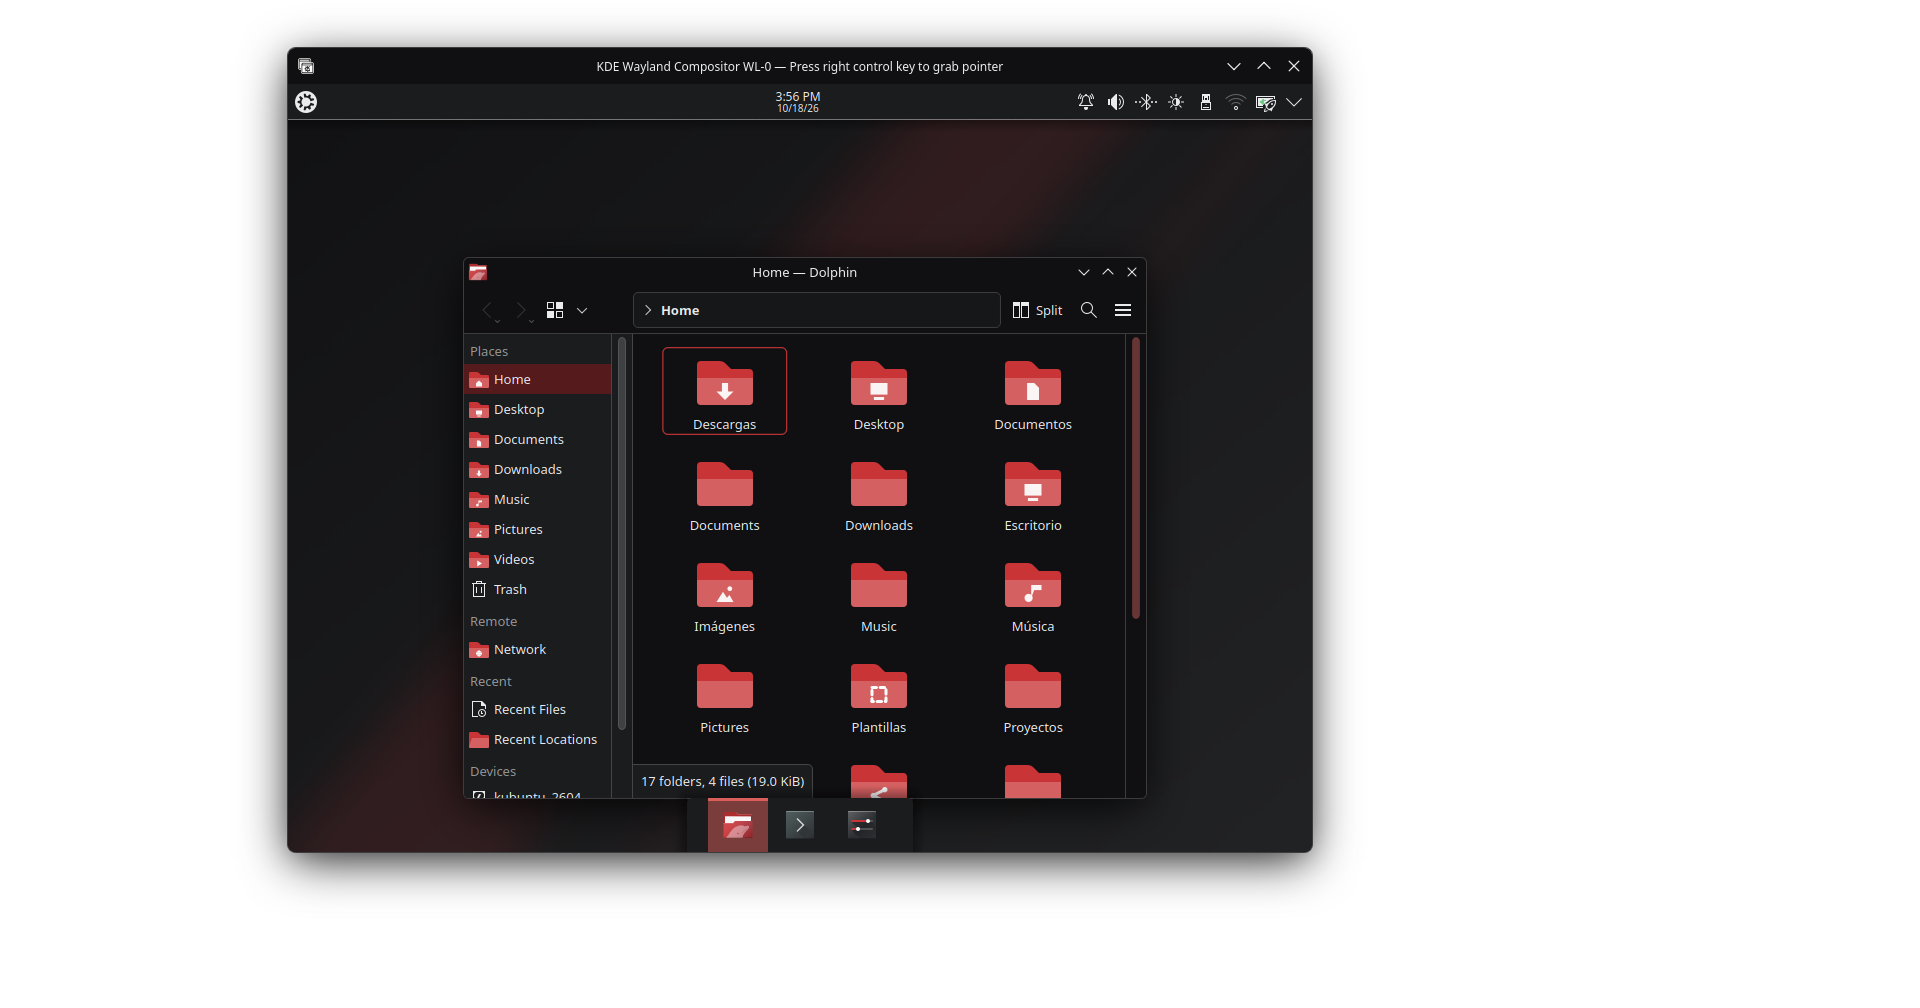
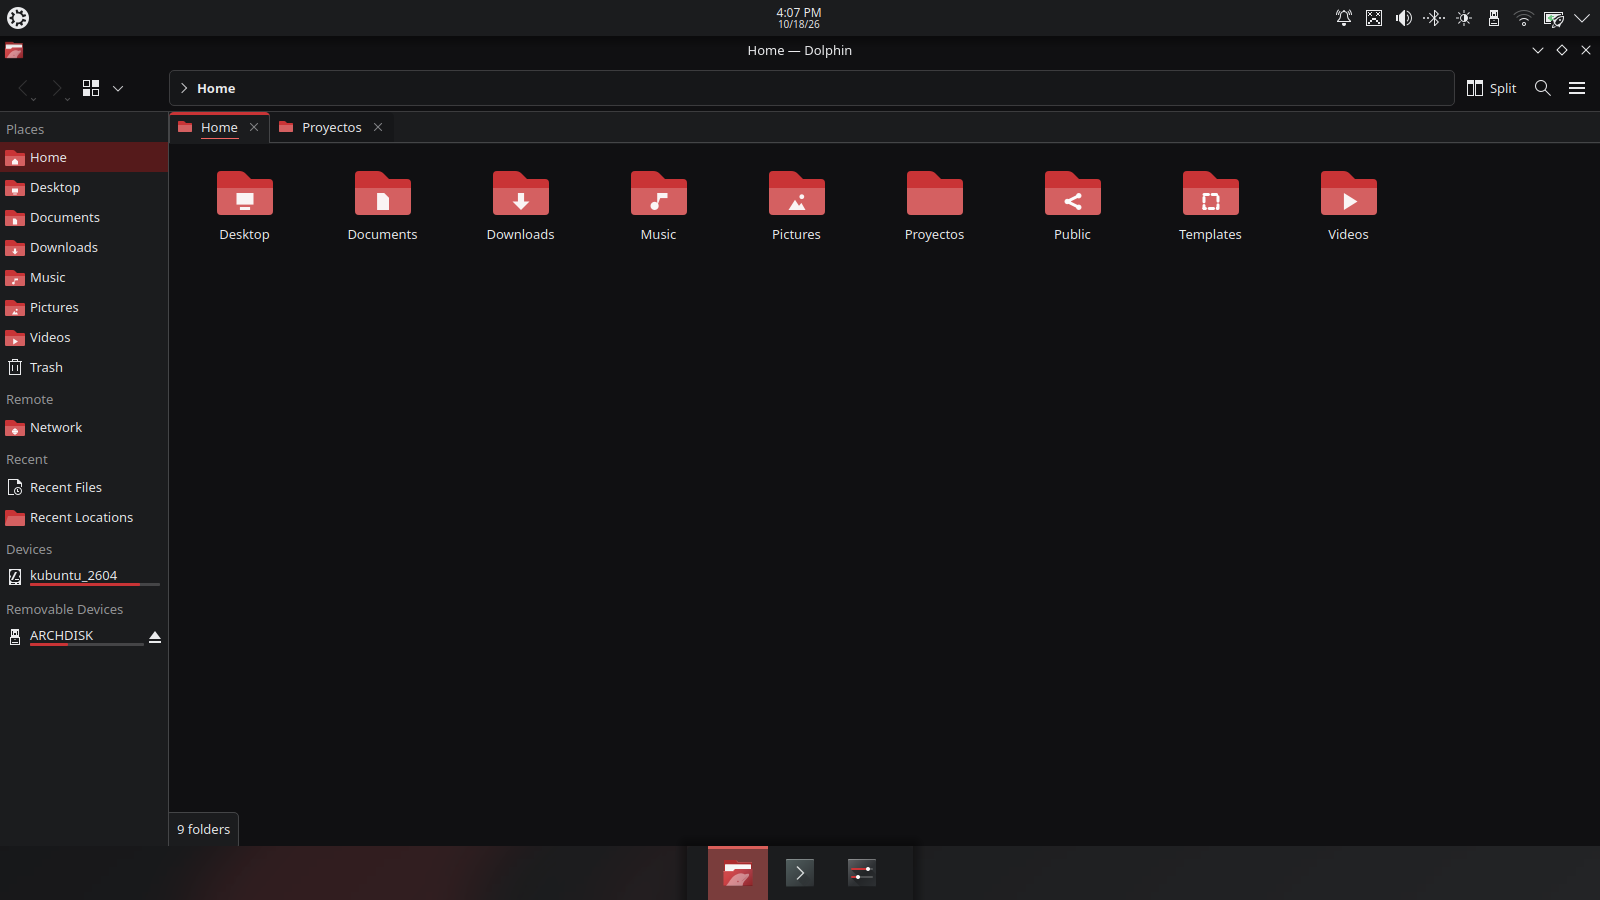
docs: validación visual del lote 2
Sesión de Plasma anidada con HOME aparte (/tmp/casa-lliphi-l2), compositor externo
`--virtual` y DBus de prueba: iconos de carpeta en Dolphin (22, 32 y 64 px escalable) y la
extensión de VS Code en Positron 2026.06.0, en las dos variantes, con colores medidos contra
los tokens; capturas 06–08 por variante y galería del sitio. Alacritty, Kitty, VS Code,
VSCodium y Zed no están instalados: archivos validados por estructura, estado «experimental».
`iconos` pasa a «probado». Defecto anotado: la carpeta (acento) se funde con la fila
seleccionada activa del panel de lugares (validacion.md §5.3, iconos.py). Método documentado:
doble KWin con --exit-with-session, Spectacle contra el display del externo, DPMS despierto.

diff --git a/docs/validacion.md b/docs/validacion.md
@@ -58,3 +58,75 @@ capturas (caso 02), no el boceto.
   reales lo confirman en el escritorio.
 - Validación con inicio de sesión real (usuario `prueba-tema`), escalas y aplicaciones GTK: pendiente para el autor
   o para una sesión posterior.
+
+## 5. Lote 2 (2026-10-18): iconos de carpeta, editores y terminales
+
+Mismo método con tres cambios, todos en el `HOME` aparte `/tmp/casa-lliphi-l2` y con el DBus de la sesión de prueba:
+
+1. **Compositor externo virtual.** `kwin_wayland --virtual --xwayland --width 1600 --height 900
+   --exit-with-session=startplasma-wayland` bajo `dbus-run-session`. Con `--exit-with-session`, `startplasma-wayland`
+   arranca su propio `kwin_wayland_wrapper`: hay **dos KWin anidados** (el externo, dueño de `org.kde.KWin` en el bus de
+   prueba, y el interno, que contiene la sesión de Plasma). Con el externo en ventana sobre la pantalla del autor, las
+   capturas salían negras en cuanto esa ventana dejaba de verse; con `--virtual` no dependen de la pantalla del autor
+   ni se le muestra nada.
+2. **Captura.** Spectacle pide `CaptureScreen("<nombre de pantalla>")` a `org.kde.KWin.ScreenShot2` del bus, que es
+   el externo; para que el nombre coincida hay que lanzarlo con el display del externo (`WAYLAND_DISPLAY=wayland-1
+   spectacle -b -n -o …`) y poner antes la ventana del interno a pantalla completa (script de KWin por DBus sobre
+   `org.kde.KWin`: `w.fullScreen = true`). Las aplicaciones se abren en el display interno (`wayland-2`) y se
+   maximizan con un script cargado en el KWin interno por su nombre único de bus (`:1.N`, el de su PID).
+3. **Pantalla despierta.** La sesión de prueba apaga su salida por inactividad (DPMS) y la captura sale negra o
+   lavada; `kscreen-doctor --dpms on` sobre `wayland-2` antes de cada captura, y `powerdevilrc` sin acciones por
+   inactividad en el `HOME` de prueba.
+
+Instalación: `instalar.py --aplicar` con `HOME`, `XDG_DATA_HOME`, `XDG_CONFIG_HOME` y `XDG_STATE_HOME` de prueba y una
+carpeta `.positron/` vacía creada antes, de modo que el instalador cubrió también Positron (base condicional) y omitió
+VSCodium, que no existe, diciéndolo. Variante oscura sembrada en `kdeglobals`/`plasmarc`; variante clara aplicada con
+`plasma-apply-lookandfeel -a org.lliphi.claro` y `kwriteconfig6 --file kdeglobals --group Icons --key Theme lliphi`
+más la señal `org.kde.KIconLoader.iconChanged`, todo con el DBus de la sesión de prueba.
+
+### 5.1 Capturas (`../muestras/capturas/`)
+
+| caso | oscuro | claro | qué se comprueba |
+|---|---|---|---|
+| Dolphin, vista de iconos a 32 px y lugares a 22 px | `oscuro-06-dolphin-iconos-carpeta.png` | `claro-06-dolphin-iconos-carpeta.png` | carpetas en el acento, distintivos de los lugares, lista de lugares, tema aplicado |
+| Dolphin, iconos grandes (64 px escalable, dibujado a ~96 px) | `oscuro-07-dolphin-iconos-grandes.png` | `claro-07-dolphin-iconos-grandes.png` | alineación de los distintivos y nitidez del SVG escalable |
+| Positron 2026.06.0 con la extensión instalada y `workbench.colorTheme` | `oscuro-08-positron.png` | `claro-08-positron.png` | interfaz (editor, barras, pestañas, terminal integrada) y sintaxis de Python |
+
+Valores medidos en las capturas contra `tokens/tokens.json`: Dolphin oscuro, vista `#101012`, ventana y paneles
+`#1b1c1e`, selección activa y cuerpo de la carpeta `#c93436`, solapa `#d46061`, distintivo `#faf4f4`; Dolphin claro,
+vista `#fbfcfd`, ventana `#ecedef`, carpeta `#c53133`, solapa `#d15d5f`. Positron oscuro: editor, barra de actividad,
+título y estado `#101012`, explorador y panel de sesión `#1b1c1e`, borde superior de la pestaña activa `#c93436`,
+cadenas `#69c27e`, números `#d0a43a`; Positron claro: editor `#fbfcfd`, explorador `#ecedef`, borde de pestaña
+`#c43032`, cadenas `#007835`, números `#7e5e00`, funciones `#345fb2`. Todo coincide con los semánticos y los ANSI.
+
+### 5.2 Resultado por componente
+
+| componente | estado | observación |
+|---|---|---|
+| iconos `lliphi` / `lliphi-oscuro` | **probado** | KIconLoader tiñe las carpetas con el acento (`FollowsColorScheme`) en las dos variantes; los distintivos (casa, documento, flecha, imagen, nota, reproducir, monitor, plantilla, compartir, red) se ven desde 22 px; a 64 px escalable el dibujo es nítido y alineado; lo que no es carpeta sigue siendo Breeze |
+| extensión de VS Code en Positron | **probado** (Positron 2026.06.0) | `package.json` y los dos temas cargan; interfaz y sintaxis conformes a la tabla única; `tab.activeBorderTop` en rojo; terminal integrada con el fondo del esquema |
+| VS Code, VSCodium | no probado | no están instalados en esta máquina; la extensión es la misma que carga Positron (base VS Code ≥ 1.80) |
+| Zed | no probado | no está instalado; `lliphi.json` válido por estructura (esquema v0.2.0, dos temas, 145 claves de estilo) |
+| Alacritty | no probado | no está instalado; los `.toml` cargan con `tomllib` y traen `colors.{primary,cursor,vi_mode_cursor,selection,search,hints,footer_bar,line_indicator,normal,bright}` |
+| Kitty | no probado | no está instalado; los `.conf` traen 37 claves y la cabecera `## name:` para `kitten themes` |
+| LibreOffice | no probado aquí | queda para el autor (`estado.md`) |
+| escala 150 % | no verificado | la sesión anidada corre a escala 1; se cubrió con la vista de iconos grandes (64 px escalable a ~96 px) |
+
+### 5.3 Defectos y observaciones
+
+1. **Carpeta sobre la fila seleccionada** (`herramientas/destinos/iconos.py`). En el panel de lugares de Dolphin, con la
+   fila activa y seleccionada, el cuerpo de la carpeta (`ColorScheme-Highlight`, `#c93436`) se funde con el fondo de la
+   selección (el mismo acento): solo la solapa y el distintivo blanco la delatan (`oscuro-06`, fila «Home» en el primer
+   intento; con la selección inactiva, `#551a1b` o `#e8c3c3`, se ve bien). KFilePlacesView no pide a KIconLoader el
+   estado «seleccionado», que es el que invertiría los colores. Opciones, a decidir en el generador: un contorno de 1 px
+   en `ColorScheme-HighlightedText` a baja opacidad alrededor del cuerpo, o dibujar el cuerpo con el acento suave y la
+   solapa con el acento base. Breeze no lo sufre porque su carpeta es azul sobre selección azul más clara.
+2. **Transición de tema**: tras `plasma-apply-lookandfeel -a org.lliphi.claro`, el dock tardó cerca de un minuto en
+   recolorearse (una captura intermedia lo mostró en `#303538` con el panel ya en `#ecedef`); después, `#ecedef` como
+   el panel. No es del lote 2; se anota por si se repite en una sesión real.
+3. **Distintivos a 16 px**: no se dibujan (por diseño, desde 22 px); en la lista de lugares de Dolphin, a 22 px, son
+   legibles pero pequeños. Sin acción.
+4. **Método**: `pgrep -f`/`pkill -f` con el texto de una orden coinciden con la propia shell que la contiene; en la
+   validación se mata por PID tras comprobar `HOME=/tmp/casa-lliphi-l2` en `/proc/<pid>/environ`, y el compositor
+   externo solo con el patrón anclado `^kwin_wayland --virtual --xwayland --width 1600`. La sesión del autor no se
+   tocó en ningún momento (su `kwin_wayland --socket wayland-0` siguió vivo; ninguna orden `plasma-apply-*` usó su bus).

diff --git a/estado.md b/estado.md
@@ -13,6 +13,7 @@ Hasta que el autor elija el nombre (fase 3), la carpeta se llama `tema-plasma` y
 
 | fecha | qué | dónde se ve |
 |---|---|---|
+| 2026-10-18 | lote 2, validación visual en sesión anidada (`HOME` aparte, compositor externo `--virtual`, DBus de prueba): iconos de carpeta en Dolphin a 22/32/64 px y la extensión de VS Code en Positron 2026.06.0, en las dos variantes, con colores medidos contra los tokens (capturas 06–08); Alacritty, Kitty, VS Code, VSCodium y Zed no están instalados (archivos validados por estructura); defecto anotado: la carpeta se funde con la fila seleccionada (`validacion.md` §5.3); `iconos` pasa a «probado» | `docs/validacion.md` §5, `docs/compatibilidad.md`, `muestras/capturas/` |
 | 2026-10-18 | lote 2, LibreOffice: `herramientas/destinos/libreoffice.py` → `generado/libreoffice/` (extensión `lliphi.oxt` de solo configuración, reproducible, probada con `unopkg add` en un perfil desechable; fragmentos `lliphi.xcu`, `-claro`, `-oscuro` para `registrymodifications.xcu`); 91 entradas tomadas del esquema real de 26.2 (`main.xcd`); BASIC/SQL/HTML con la tabla de los editores; módulo, prueba, compatibilidad, changelog, decisión 3.14; el instalador no toca LibreOffice | `modulos/libreoffice/`, `sitio/generado/catalogo/libreoffice.qmd` |
 | 2026-10-18 | lote 2, editores: la extensión de VS Code se instala también en Positron (`~/.positron/extensions/`) y VSCodium (`~/.vscode-oss/extensions/`) con bases condicionales del instalador (solo si existe la carpeta del editor; ampliación de la decisión 3.12); prueba con `.positron/` en el HOME temporal | `herramientas/instalar.py`, `modulos/editores/INSTALL.md` |
 | 2026-10-18 | lote 2, iconos: `herramientas/destinos/iconos.py` → `generado/icons/{lliphi,lliphi-oscuro}/` (solo carpetas y lugares, 25 nombres × 5 tamaños, `FollowsColorScheme`, 64 px escalable); render de muestra `muestras/capturas/iconos-carpetas-render.png`; módulo, instalador, prueba, compatibilidad, changelog, decisión 3.13 | `modulos/iconos/`, `sitio/generado/catalogo/iconos.qmd` |
@@ -35,7 +36,8 @@ Hasta que el autor elija el nombre (fase 3), la carpeta se llama `tema-plasma` y
 
 - 2026-10-18 · dueño: autor · **el disco interno `/dev/nvme0n1` (INTEL HBRPEKNX0101AH) aparece como «likely to fail soon» en Plasma** (aviso de Device Health visto en la sesión de prueba): respaldar y comprobar con `sudo smartctl -a /dev/nvme0n1`.
 - 2026-10-18 · dueño: autor · **publicar 0.1.0**: crear el remoto `achalmed/lliphi`, empujar, etiquetar `v0.1.0`, `gh release create` con `dist/`, sitio en Netlify (`lliphi`), parche del hub y fichas en KDE Store; comandos en `docs/publicacion.md`.
-- 2026-10-18 · dueño: autor · **validar visualmente el lote 2**: abrir Alacritty, Kitty, VS Code, Positron y Zed con los temas (`instalar.py --modulos terminales,editores --aplicar` y los pasos de cada `INSTALL.md`), elegir los iconos `lliphi` en el KCM y mirar Dolphin a 100 % y 150 % (si los distintivos se desalinean, añadir directorios `@2x`); capturas a `muestras/capturas/` y estado de los módulos a «probado».
+- 2026-10-18 · dueño: autor · **validar el lote 2 en lo que aquí no está instalado**: Alacritty, Kitty, VS Code, VSCodium y Zed con los pasos de cada `INSTALL.md` (iconos y Positron ya validados en sesión anidada, `docs/validacion.md` §5); Dolphin a 150 % en sesión real (si los distintivos se desalinean, añadir directorios `@2x`); capturas a `muestras/capturas/`.
+- 2026-10-18 · dueño: asistente · **iconos, defecto 1 de `validacion.md` §5.3**: la carpeta (acento) se funde con la fila seleccionada activa en el panel de lugares; decidir en `herramientas/destinos/iconos.py` (contorno `HighlightedText` a baja opacidad o cuerpo en acento suave) y regenerar.
 - 2026-10-18 · dueño: autor · **validar LibreOffice**: con LibreOffice cerrado, `unopkg add generado/libreoffice/lliphi.oxt`, elegir «Lliphi Oscuro» en Herramientas → Opciones → LibreOffice → Colores de la aplicación y mirar Writer (página, límites, campos), Calc (cuadrícula, resaltado de valores, saltos) y la IDE de BASIC; si algún color del documento molesta, ajustar la tabla `entradas()` de `herramientas/destinos/libreoffice.py`; decidir si se activa `LibreOfficeTheme` para la interfaz; captura a `muestras/capturas/` y módulo a «probado».
 - 2026-10-18 · dueño: asistente · navegador (Zen/Firefox) desde los mismos tokens; cursores; `[Icons][Theme]` en los temas globales cuando el autor apruebe los iconos; subir `VERSION` a 0.2.0 al publicar el lote 2 (los módulos ya declaran `desde: 0.2.0`).
 - 2026-10-18 · dueño: autor · validar con inicio de sesión real como `prueba-tema` (SDDM, splash, bloqueo, escala 150 %, una aplicación GTK): `python3 /tmp/lliphi-dist/herramientas/instalar.py --aplicar --aplicar-tema oscuro`.

diff --git a/docs/compatibilidad.md b/docs/compatibilidad.md
@@ -18,15 +18,15 @@ probado aquí. Se actualiza en cada fase de validación.
 | estilo de Plasma (hereda de Breeze; `plasmarc` con `[ContrastEffect]`, `[AdaptiveTransparency]`) | esperado | esperado | **probado** (sesión anidada, 2026-10-18) | `AdaptiveTransparency` no documentado: se prueba |
 | decoración Breeze coloreada | esperado | esperado | **probado** (sesión anidada, 2026-10-18) | `[WM]`, `Colors:Header` |
 | Konsole `.colorscheme` | esperado | esperado | pendiente | Konsole ≥ 22 |
-| Alacritty `[colors]` (TOML) | independiente de Plasma | — | pendiente | Alacritty ≥ 0.13 (configuración TOML; `general.import` desde 0.14) |
-| Kitty `.conf` (`color0..15`, selección, cursor, pestañas) | independiente de Plasma | — | pendiente | Kitty ≥ 0.26 (`include`, `kitten themes`) |
-| VS Code (extensión de tema: `colors`, `tokenColors`, `semanticTokenColors`) | independiente de Plasma | — | pendiente | VS Code ≥ 1.80 (`editorIndentGuide.background1`, `activityBarTop.*`) |
-| Positron y VSCodium (la misma extensión, en `~/.positron/extensions/` y `~/.vscode-oss/extensions/`) | independiente de Plasma | — | pendiente | Positron ≥ 2025.x y VSCodium ≥ 1.80 (base de VS Code ≥ 1.80); el instalador los cubre solo si existe su carpeta |
-| Zed (`themes/<id>.json`, esquema v0.2.0) | independiente de Plasma | — | pendiente | Zed ≥ 0.130 (temas de usuario en `~/.config/zed/themes/`) |
+| Alacritty `[colors]` (TOML) | independiente de Plasma | — | experimental (no instalado aquí; TOML válido con todas las secciones `colors.*`, 2026-10-18) | Alacritty ≥ 0.13 (configuración TOML; `general.import` desde 0.14) |
+| Kitty `.conf` (`color0..15`, selección, cursor, pestañas) | independiente de Plasma | — | experimental (no instalado aquí; 37 claves y cabecera `## name:`, 2026-10-18) | Kitty ≥ 0.26 (`include`, `kitten themes`) |
+| VS Code (extensión de tema: `colors`, `tokenColors`, `semanticTokenColors`) | independiente de Plasma | — | experimental (VS Code no instalado aquí; la misma extensión está probada en Positron) | VS Code ≥ 1.80 (`editorIndentGuide.background1`, `activityBarTop.*`) |
+| Positron y VSCodium (la misma extensión, en `~/.positron/extensions/` y `~/.vscode-oss/extensions/`) | independiente de Plasma | — | **probado** en Positron 2026.06.0 (sesión anidada, 2026-10-18: interfaz, sintaxis y terminal en las dos variantes); VSCodium no instalado aquí (experimental) | Positron ≥ 2025.x y VSCodium ≥ 1.80 (base de VS Code ≥ 1.80); el instalador los cubre solo si existe su carpeta |
+| Zed (`themes/<id>.json`, esquema v0.2.0) | independiente de Plasma | — | experimental (no instalado aquí; JSON válido por estructura, 2026-10-18) | Zed ≥ 0.130 (temas de usuario en `~/.config/zed/themes/`) |
 | LibreOffice «Colores de la aplicación» (`.oxt` de configuración y fragmento `.xcu`) | independiente de Plasma | — | pendiente | LibreOffice ≥ 24.8 (lista de 91 entradas tomada del esquema de 26.2; versiones anteriores ignoran las que no conocen); la interfaz la da Plasma salvo que se active `LibreOfficeTheme` |
 | fondo con `images_dark/` | no (solo `images/`) | no | **probado** por ruta del paquete; por nombre no resolvió | `images_dark/` llega en 6.6; antes se usa la imagen clara |
 | acento declarado por el fondo | esperado | esperado | pendiente | `X-KDE-PlasmaImageWallpaper-AccentColor` |
-| iconos de carpeta (`lliphi`, `lliphi-oscuro`; heredan de Breeze; `FollowsColorScheme`) | esperado | esperado | pendiente | KIconLoader (KF 6) recolorea `current-color-scheme`; GTK ve los colores de respaldo del SVG |
+| iconos de carpeta (`lliphi`, `lliphi-oscuro`; heredan de Breeze; `FollowsColorScheme`) | esperado | esperado | **probado** (Dolphin en sesión anidada, 2026-10-18: 22, 32 y 64 px escalable, dos variantes; defecto 1 de `validacion.md` §5.3) | KIconLoader (KF 6) recolorea `current-color-scheme`; GTK ve los colores de respaldo del SVG |
 | GTK generado por Plasma | esperado | esperado | pendiente | `kde-gtk-config`, `breeze-gtk` |
 | Aurorae propio | no se ofrece | no se ofrece | no se ofrece | motor V2 solo desde 6.6 |
 | «guardar como tema global» de 6.6 | — | — | no se usa | bug 516318 |

diff --git a/sitio/generado/_catalogo-tabla.md b/sitio/generado/_catalogo-tabla.md
@@ -5,7 +5,7 @@
 | [Estilo de Plasma](generado/catalogo/estilo.qmd) | Panel, diálogos, tooltips y fondos de widgets con los radios y márgenes de Lliphi; sigue el esquema de color y el acento del sistema. | probado | 0.1.0 |
 | [Fondos de pantalla](generado/catalogo/fondos.qmd) | Paquete «Lliphi Horizonte» con imagen clara y oscura (Plasma elige según el esquema) en 1080p, 1440p y 4K, y acento declarado. | probado | 0.1.0 |
 | [Temas globales](generado/catalogo/global.qmd) | Dos paquetes look-and-feel que aplican esquema, estilo de Plasma, iconos, cursores, decoración y, si lo pides, la disposición del escritorio. | probado | 0.1.0 |
-| [Iconos de carpeta](generado/catalogo/iconos.qmd) | Dos temas de iconos que heredan todo de Breeze y cambian solo las carpetas: dibujadas aquí, en el acento, con distintivos para los lugares de uso común; siguen el acento del usuario en KDE. | experimental | 0.2.0 |
+| [Iconos de carpeta](generado/catalogo/iconos.qmd) | Dos temas de iconos que heredan todo de Breeze y cambian solo las carpetas: dibujadas aquí, en el acento, con distintivos para los lugares de uso común; siguen el acento del usuario en KDE. | probado | 0.2.0 |
 | [Konsole](generado/catalogo/konsole.qmd) | Esquemas de color para la terminal con una paleta ANSI de dieciséis colores medida sobre el fondo. | experimental | 0.1.0 |
 | [LibreOffice: colores de la aplicación](generado/catalogo/libreoffice.qmd) | Dos esquemas de «Colores de la aplicación» (Lliphi Claro y Lliphi Oscuro) para Writer, Calc, Impress, Draw, Base y la IDE de BASIC: documento, cuadrícula, saltos, control de cambios, sintaxis BASIC y SQL desde los mismos tokens, como extensión .oxt o fragmento .xcu. | experimental | 0.2.0 |
 | [Terminales: Alacritty y Kitty](generado/catalogo/terminales.qmd) | Los mismos dieciséis colores ANSI, fondo, selección y cursor de Konsole para Alacritty (TOML) y Kitty (conf), en claro y oscuro. | experimental | 0.2.0 |
